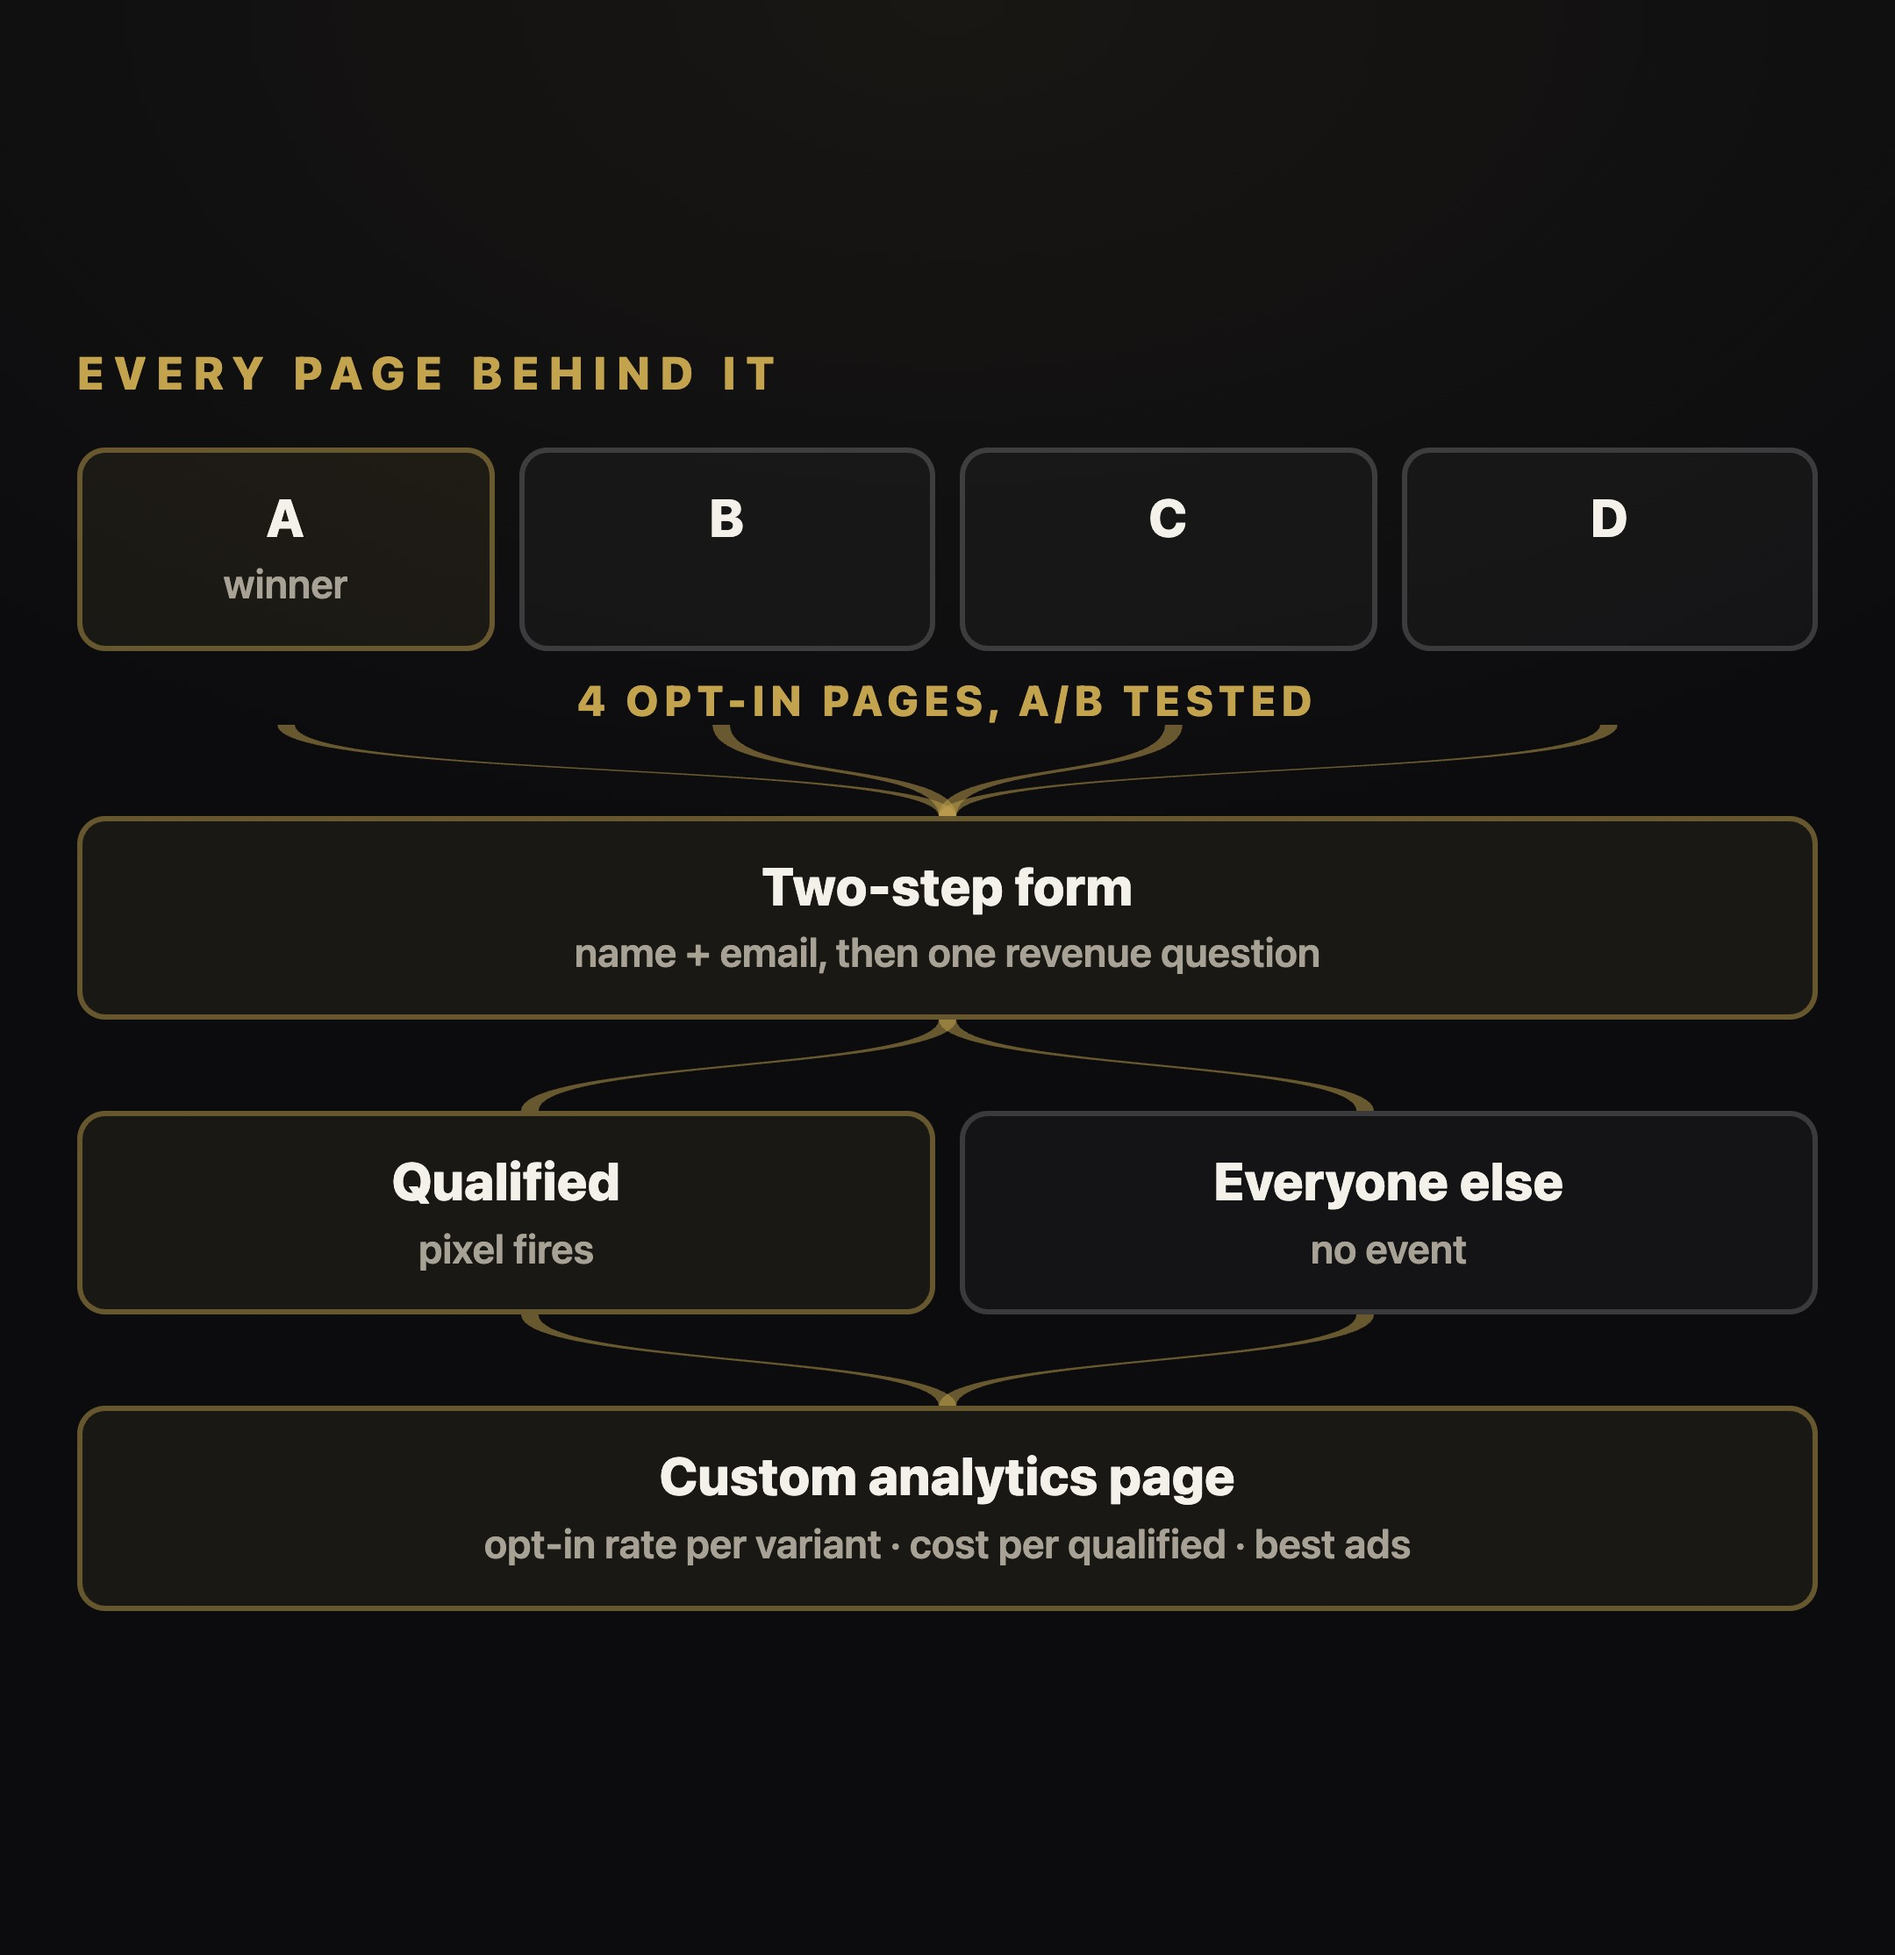
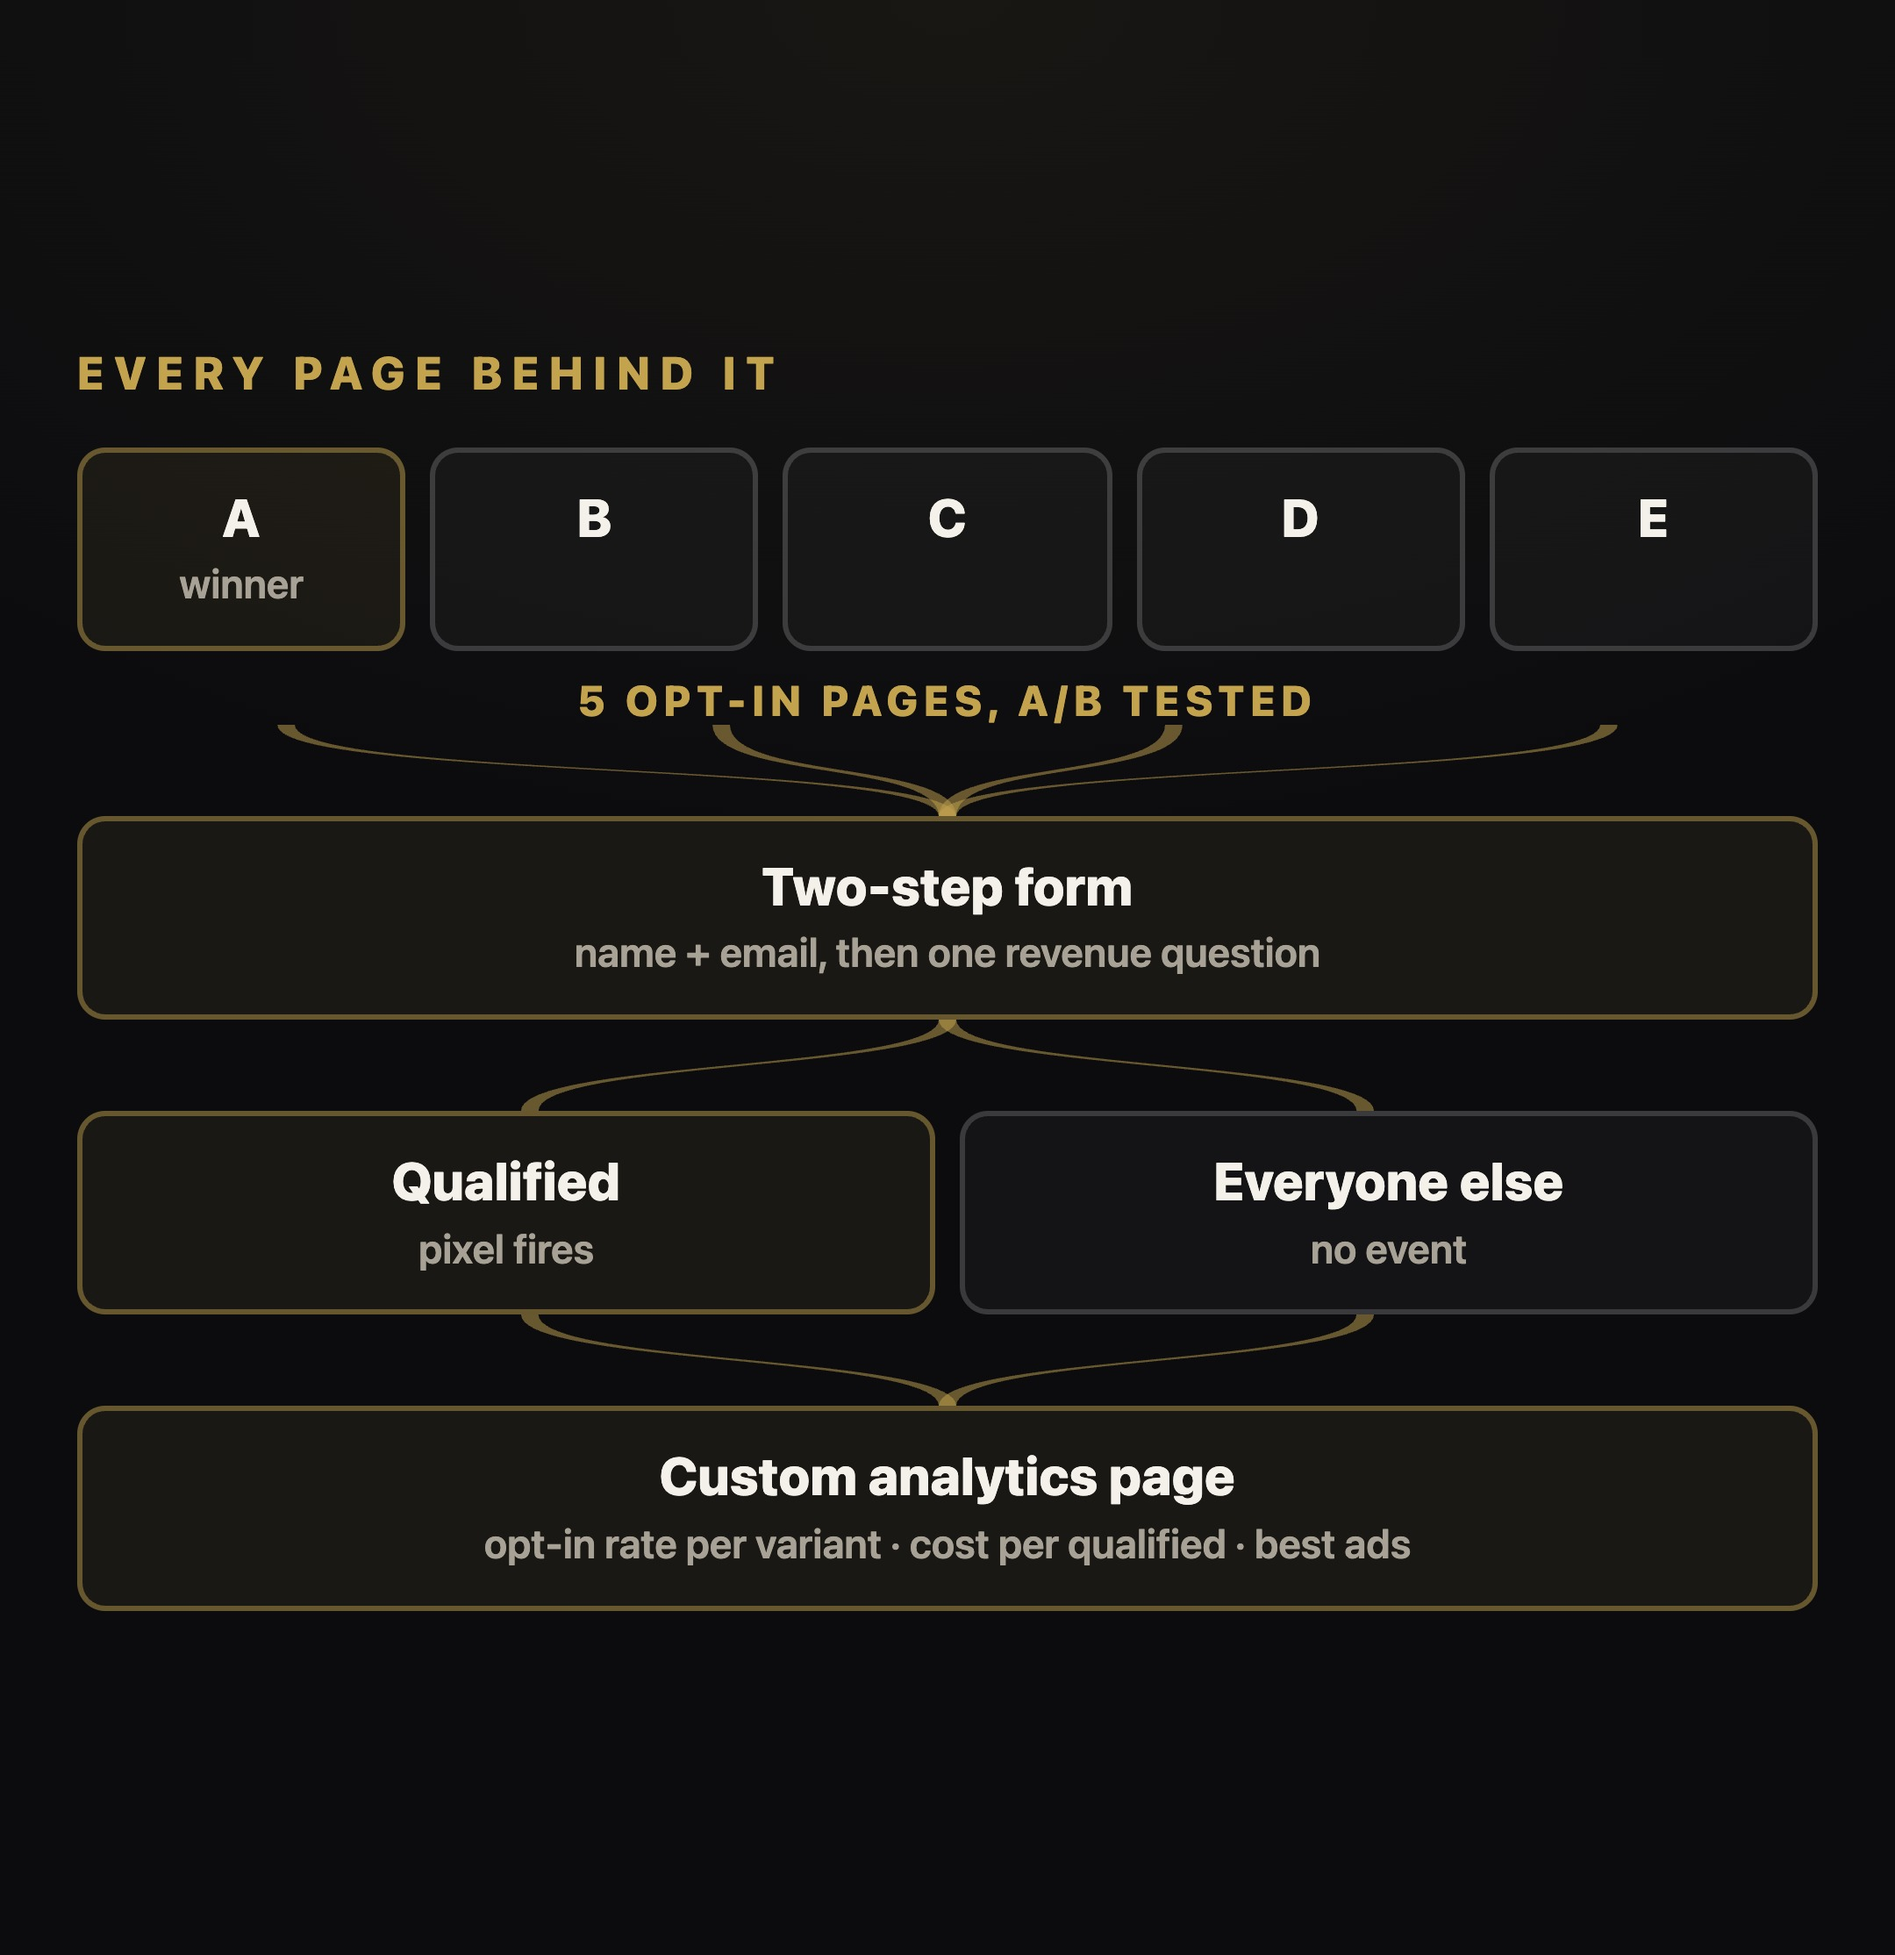
Slide 19: opt-in rate by page. Slide 2: five opt-in pages, not four
Slide 19 already had qualified leads by ad, so added the other half: opt-in rate
by page, which of the A/B pages is actually converting. New bullet on g13,
re-rendered, voiceover updated.

Slide 2 and the g2 frame both said "4 opt-in pages". The database has five
variants, all live in the launch window, rolled out in waves (1 and 2 from 18
Jul, 3 and 4 from the 22nd, 5 from the 24th). Opt-in rates 4.2 / 3.8 / 3.4 / 3.3
/ 3.2 percent with variant 3 winning. Frame now shows A to E with connectors
reflowed, and the voiceover says five.

Claude-Session: https://claude.ai/code/session_01X1ssoJRy9jKoEWSTikS6cS

diff --git a/index.html b/index.html
@@ -106,7 +106,7 @@
       name: 'The webinar funnel · $5,700 → $100,000',
       beats: [
         {img:'img/g1.jpg', s:"Five thousand seven hundred in ads came back as a hundred grand. Nine days, one webinar, seventeen and a half times return. Here's the exact webinar funnel."},
-        {img:'img/g2.jpg', s:"Four opt-in pages A/B tested, feeding one two-step form. That splits into two thank-you pages, and it all lands on one custom analytics page."},
+        {img:'img/g2.jpg', s:"Five opt-in pages A/B tested, feeding one two-step form. That splits into two thank-you pages, and it all lands on one custom analytics page."},
                 {img:'img/g3.jpg', s:"This is the opt-in page. Seven parts, always in this order."},
         {img:'img/b1.jpg', s:"One. The banner. Countdown and the exact time, pinned to the top."},
         {img:'img/b2.jpg', s:"Two. The eyebrow. It names who this is for before they read anything else."},
@@ -123,7 +123,7 @@
         {img:'img/t4.jpg', s:"Step three, add it to the calendar."},
         {img:'img/t5.jpg', s:"Step four, check the confirmation email."},
         {img:'img/g12.jpg', s:"And every one of those pages reports into here. A custom analytics page, live, built for the client."},
-        {img:'img/g13.jpg', s:"Further down, the source and the exact ad behind every opt-in. What they answered on step two. And which creative brings the ten-grand-plus people, and which one brings the ones who cannot buy."},
+        {img:'img/g13.jpg', s:"Further down, the source and the exact ad behind every opt-in. What they answered on step two. Which creative brings the ten-grand-plus people, and which one brings the ones who cannot buy. And the opt-in rate on every page, so you can see which of the five is actually converting."},
         {img:'img/g14.jpg', s:"Comment FUNNEL and I'll send you our opt-in form SOPs."}
       ]
     },

diff --git a/frames-funnel.html b/frames-funnel.html
@@ -142,9 +142,10 @@
       <div class="bx plain"><div class="bt">B</div></div>
       <div class="bx plain"><div class="bt">C</div></div>
       <div class="bx plain"><div class="bt">D</div></div>
+      <div class="bx plain"><div class="bt">E</div></div>
     </div>
     <div class="bs" style="font-size:24px;color:var(--gold);font-weight:800;letter-spacing:.14em;
-      text-transform:uppercase;margin-top:14px">4 opt-in pages, A/B tested</div>
+      text-transform:uppercase;margin-top:14px">5 opt-in pages, A/B tested</div>
     <div class="cn"><svg viewBox="0 0 100 100" preserveAspectRatio="none">
       <path d="M12,0 C12,60 50,40 50,100" stroke="#C4A34F" stroke-opacity=".5" stroke-width="1" fill="none"/>
       <path d="M37,0 C37,60 50,40 50,100" stroke="#C4A34F" stroke-opacity=".5" stroke-width="1" fill="none"/>
@@ -276,6 +277,7 @@
     <li><b>Step-two</b> answers<small>the revenue band every registrant picked</small></li>
     <li><b>Qualified</b> leads by ad<small>which creative brings the &euro;10K+ people</small></li>
     <li><b>Unqualified</b> leads by ad<small>which creative brings the ones who cannot buy</small></li>
+    <li><b>Opt-in rate</b> by page<small>which of the five A/B pages converts best</small></li>
   </ul>
 </div>
 
